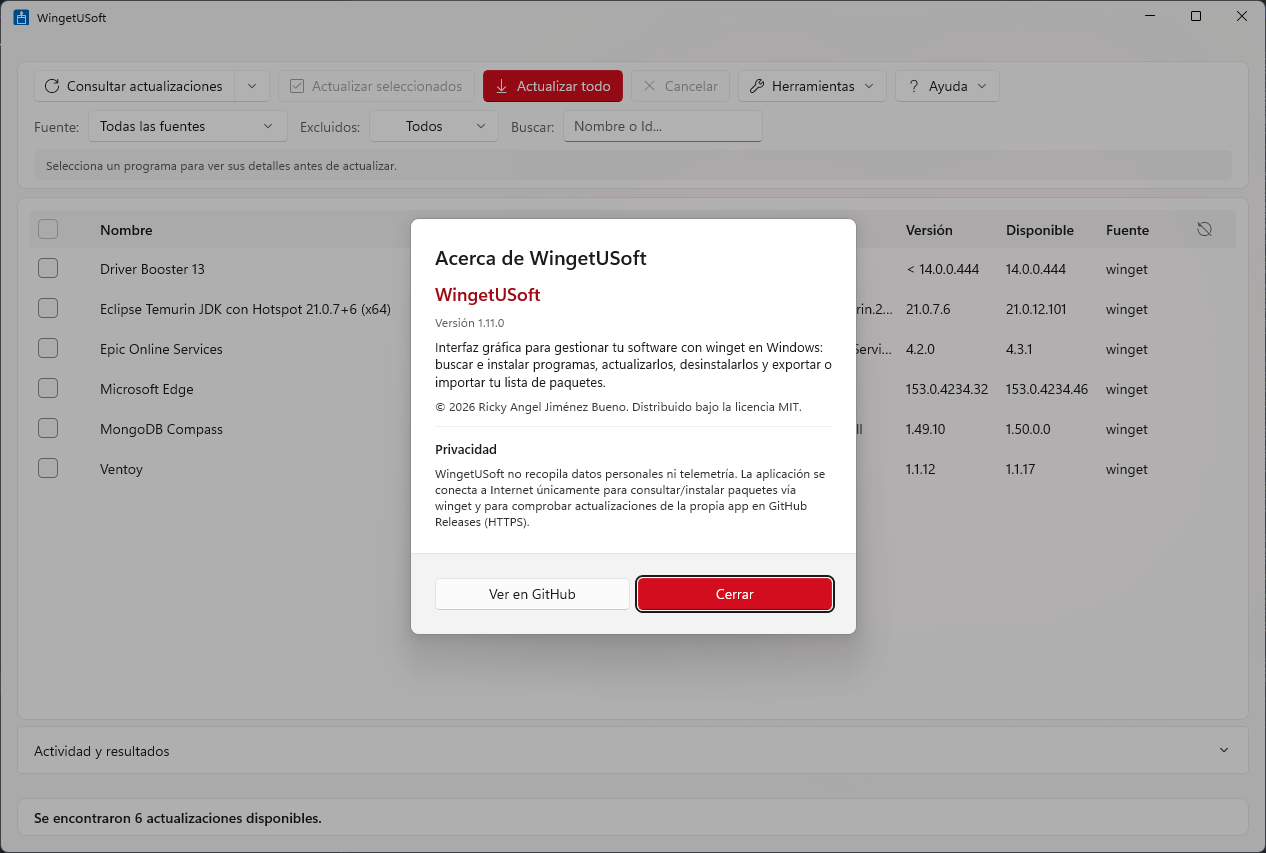
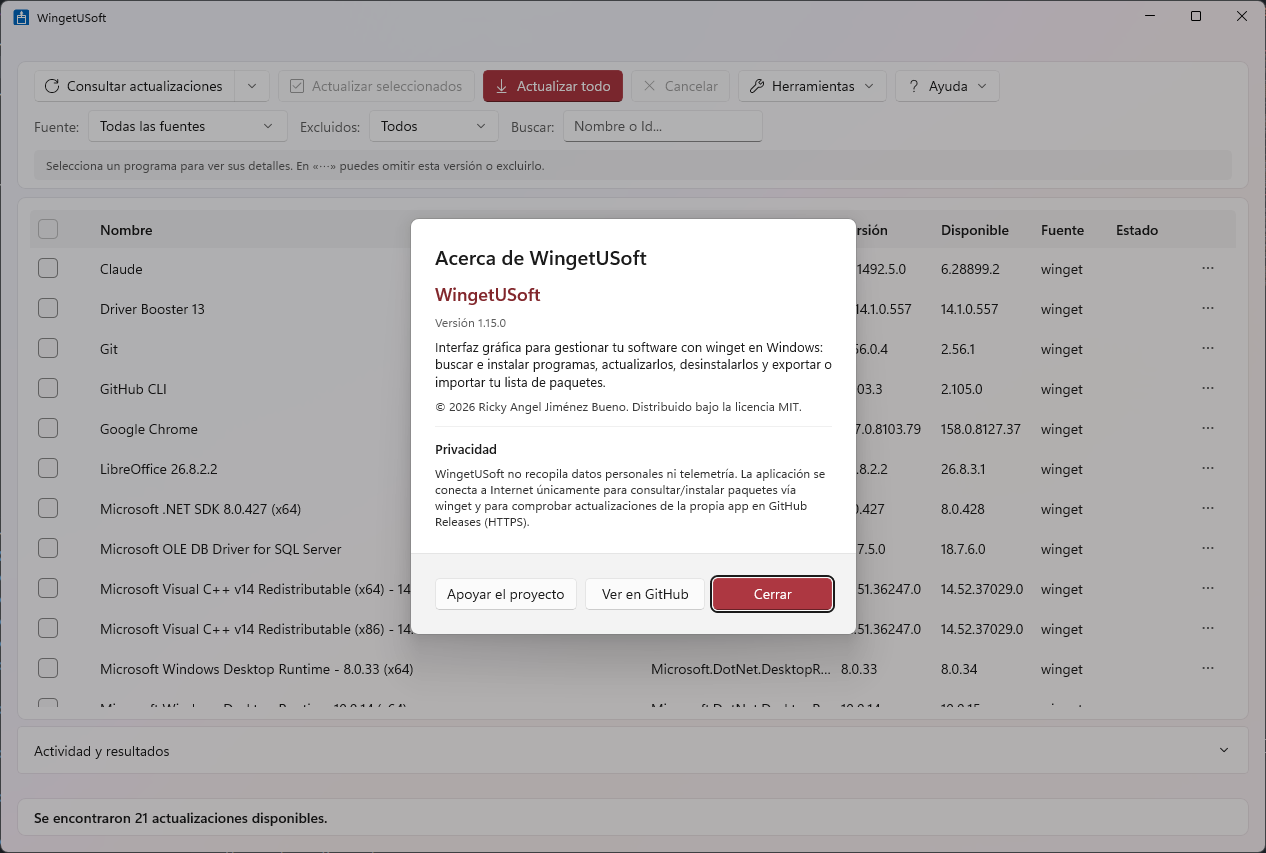
release: v1.15.0

diff --git a/src/WingetUSoft/Services/WingetService.cs b/src/WingetUSoft/Services/WingetService.cs
@@ -225,7 +225,13 @@ public static class WingetService
     /// <c>Microsoft.Edge</c> coincide también con <c>Microsoft.Edge.GameAssist</c> (comprobado con
     /// <c>winget list</c>). Al desinstalar, el Id tiene que señalar ese programa y ningún otro.
     /// </summary>
-    internal static List<string> BuildUninstallArguments(string packageId, bool silent)
+    /// <param name="packageId">Id exacto del paquete.</param>
+    /// <param name="silent">Sin ventanas del desinstalador.</param>
+    /// <param name="version">
+    /// Versión concreta, solo si hay varias instaladas bajo el mismo Id (ver
+    /// <see cref="UninstallBatch.VersionToDisambiguate"/>): sin ella, winget se niega con <c>0x8A150016</c>.
+    /// </param>
+    internal static List<string> BuildUninstallArguments(string packageId, bool silent, string? version = null)
     {
         var arguments = new List<string>
         {
@@ -235,6 +241,11 @@ public static class WingetService
             "--exact",
             "--accept-source-agreements"
         };
+        if (!string.IsNullOrEmpty(version))
+        {
+            arguments.Add("--version");
+            arguments.Add(version);
+        }
         if (silent) arguments.Add("--silent");
         return arguments;
     }
@@ -242,9 +253,10 @@ public static class WingetService
     public static async Task<UpgradeResult> UninstallPackageAsync(
         string packageId,
         bool silent,
-        CancellationToken cancellationToken = default)
+        CancellationToken cancellationToken = default,
+        string? version = null)
     {
-        var arguments = BuildUninstallArguments(packageId, silent);
+        var arguments = BuildUninstallArguments(packageId, silent, version);
 
         var result = await RunWingetAsync(arguments, cancellationToken).ConfigureAwait(false);
         return new UpgradeResult

diff --git a/tests/WingetUSoft.Tests/UninstallBatchTests.cs b/tests/WingetUSoft.Tests/UninstallBatchTests.cs
@@ -144,6 +144,32 @@ public sealed class UninstallBatchTests
         Assert.Equal(silent, arguments.Contains("--silent"));
     }
 
+    /// <summary>Con el Id repetido, la versión va en los argumentos; sin ella, winget se niega (0x8A150016).</summary>
+    [Fact]
+    public void UninstallArguments_IncludeTheVersion_WhenGiven()
+    {
+        var arguments = WingetService.BuildUninstallArguments("Notepad++.Notepad++", silent: true, version: "8.6.0");
+
+        Assert.Equal("8.6.0", arguments[arguments.IndexOf("--version") + 1]);
+        Assert.DoesNotContain("--version", WingetService.BuildUninstallArguments("Notepad++.Notepad++", silent: true));
+    }
+
+    [Theory]
+    [InlineData("A.B", "1.0", "A.B", "2.0", "1.0")]    // repetido: hace falta la versión
+    [InlineData("A.B", "1.0", "a.b", "2.0", "1.0")]    // winget no distingue mayúsculas en el Id
+    [InlineData("A.B", "1.0", "C.D", "1.0", null)]     // Id único: no se pasa
+    [InlineData("A.B", "Unknown", "A.B", "2.0", null)] // no es una versión utilizable
+    [InlineData("A.B", "< 14.1.0", "A.B", "2.0", null)]
+    [InlineData("A.B", "", "A.B", "2.0", null)]
+    public void VersionToDisambiguate_OnlyForARepeatedIdWithARealVersion(
+        string id, string version, string otherId, string otherVersion, string? expected)
+    {
+        var package = new WingetPackage { Id = id, Version = version };
+        var other = new WingetPackage { Id = otherId, Version = otherVersion };
+
+        Assert.Equal(expected, UninstallBatch.VersionToDisambiguate(package, new[] { package, other }));
+    }
+
     /// <summary>Cabecera y filas siguen teniendo las mismas columnas, y cada casilla se anuncia con su programa.</summary>
     [Fact]
     public void UninstallTable_HasANamedCheckBoxColumn_AlignedWithItsHeader()

diff --git a/src/WingetUSoft/Core/UninstallBatch.cs b/src/WingetUSoft/Core/UninstallBatch.cs
@@ -24,6 +24,22 @@ public sealed record UninstallBatchResult(
 public static class UninstallBatch
 {
     /// <summary>
+    /// Versión que hay que pasar a winget para señalar este programa, o <c>null</c> si el Id ya basta.
+    /// </summary>
+    /// <remarks>
+    /// Con dos versiones instaladas bajo el mismo Id, <c>winget uninstall --id X --exact</c> se niega con
+    /// <c>0x8A150016</c> y no se podía quitar ninguna. Solo se pasa cuando el Id está repetido, y solo si es una
+    /// versión de verdad: winget también lista valores como <c>Unknown</c> o <c>&lt; 14.1.0</c>, que no sirven como
+    /// argumento. En ese caso winget seguirá negándose, que es preferible a desinstalar otra versión.
+    /// </remarks>
+    public static string? VersionToDisambiguate(WingetPackage package, IEnumerable<WingetPackage> installed)
+    {
+        bool repeated = installed.Count(p => string.Equals(p.Id, package.Id, StringComparison.OrdinalIgnoreCase)) > 1;
+        string version = package.Version.Trim();
+        return repeated && version.Length > 0 && char.IsAsciiDigit(version[0]) ? version : null;
+    }
+
+    /// <summary>
     /// Desinstala los programas en orden. Un fallo no corta el lote; cancelar sí, y lo pendiente no se intenta.
     /// </summary>
     /// <param name="packages">Programas a desinstalar.</param>

diff --git a/src/WingetUSoft/UI/UninstallWindow.xaml.cs b/src/WingetUSoft/UI/UninstallWindow.xaml.cs
@@ -282,6 +282,7 @@ public sealed partial class UninstallWindow : Window
         SetUIBusy(true);
         ClearLog();
         var opStopwatch = System.Diagnostics.Stopwatch.StartNew();
+        var installed = _allPackages;   // la lista se reemplaza al recargar: el lote decide con la que vio el usuario
         UninstallBatchResult? result = null;
         TaskbarProgress.SetIndeterminate(_hWnd);
 
@@ -289,7 +290,8 @@ public sealed partial class UninstallWindow : Window
         {
             result = await UninstallBatch.RunAsync(
                 targets,
-                (pkg, ct) => WingetService.UninstallPackageAsync(pkg.Id, _settings.SilentMode, ct),
+                (pkg, ct) => WingetService.UninstallPackageAsync(
+                    pkg.Id, _settings.SilentMode, ct, UninstallBatch.VersionToDisambiguate(pkg, installed)),
                 onStarting: (pkg, position) =>
                 {
                     txtEstado.Text = targets.Count == 1

diff --git a/CONTEXT.md b/CONTEXT.md
@@ -11,10 +11,10 @@
 | | |
 |---|---|
 | **Repositorio** | https://github.com/xfiberex/WingetUSoft |
-| **Versión publicada** | **1.14.0** ([release](https://github.com/xfiberex/WingetUSoft/releases/tag/v1.14.0), sin firmar) |
+| **Versión publicada** | **1.15.0** ([release](https://github.com/xfiberex/WingetUSoft/releases/tag/v1.15.0), sin firmar) |
 | **En `main`, sin publicar** | nada — `main` y el último tag coinciden |
 | **Stack** | C# / .NET 10 · **WinUI 3** (Windows App SDK 1.8, unpackaged, `net10.0-windows10.0.22621.0`, min. 10.0.19041.0) · **xUnit** + **FlaUI** · Inno Setup 6 |
-| **Última actualización** | 2026-11-20 |
+| **Última actualización** | 2026-11-21 |
 
 ---
 
@@ -88,10 +88,10 @@ release.ps1                  Corte de versión en un paso (tests + instalador + 
 | | |
 |---|---|
 | **Build** | 0 advertencias / 0 errores (`dotnet build WingetUSoft.slnx`) |
-| **Tests unitarios** | **449/449** |
+| **Tests unitarios** | **466/466** |
 | **UI tests (FlaUI)** | **65/65** — los corre `verify.ps1 -Full`, y `release.ps1` a través de él: un release no sale si la app real no pasa |
 | **Tiers** | A, B, C, D, E y **F** completados. El plan de auditoría de [`History.md`](History.md) (Parte II, T0-T4): **70 de 70**; el Tier F: **27 de 27** |
-| **Publicado** | hasta la **v1.14.0**. `main` y el último tag coinciden |
+| **Publicado** | hasta la **v1.15.0**. `main` y el último tag coinciden |
 
 **Tiers, de un vistazo** (detalle en [`History.md`](History.md); el porqué, en el Registro de cambios):
 
@@ -290,6 +290,7 @@ Lo comparten el hook de pre-push y `release.ps1`.
 
 | Fecha | Versión | Qué |
 |---|---|---|
+| 2026-11-21 | **1.15.0** | **Desinstalar varios programas a la vez** — casillas, una sola limpieza y un único resumen de fallos; `--exact` para que un Id no alcance a otro programa y `--version` para poder quitar una de dos versiones instaladas |
 | 2026-11-20 | **1.14.0** | **Crítica de diseño** — botón de peligro en contorno (ya no se confunde con un acento rojo), Novedades con párrafos completos, acciones de cada fila a la vista con «⋯», Historial vacío con un solo mensaje; CI con el SDK fijado en `global.json` |
 | 2026-09-20 | **1.13.0** | **Apoyar el proyecto** — un enlace de donación voluntaria en *Ayuda → Acerca de*, y el README reducido a la mitad |
 | 2026-09-20 | **1.12.1** | **Tier F completo (F-27)** — exportar e importar volvían a fallar en silencio si la aplicación se abría como administrador: los selectores de archivo pasan a los de Windows App SDK |
@@ -316,9 +317,9 @@ Lo comparten el hook de pre-push y `release.ps1`.
 
 ---
 
-### 2026-11-21 — Desinstalar varios programas, y `--exact` (sin publicar)
+### 2026-11-21 — Desinstalar varios programas, y que el Id señale solo a uno (release v1.15.0)
 
-Build 0/0, **459/459 unitarios**, **65/65 UI tests** con la pantalla al 125 %.
+Build 0/0, **466/466 unitarios**, **65/65 UI tests** con la pantalla al 125 %.
 
 - **Selección múltiple en Desinstalar.** Casillas por fila y tri-estado en la cabecera; las marcas sobreviven a
   la búsqueda y la confirmación nombra también las que estén ocultas. `UninstallBatch` sigue tras un fallo, se
@@ -328,9 +329,18 @@ Build 0/0, **459/459 unitarios**, **65/65 UI tests** con la pantalla al 125 %.
   también con `Microsoft.Edge.GameAssist` (comprobado con `winget list`).
 - **`DensityUiTests` mide en DIP**, y `capture-screenshots.ps1` avisa si la pantalla no está al 100 %.
 
-**Sin probar de extremo a extremo:** una desinstalación real en lote. Se probó con un doble y, en la app real,
-hasta el diálogo de confirmación, sin confirmarlo. Tampoco se ha comprobado qué hace winget con dos versiones
-instaladas bajo el mismo Id (p. ej. CrystalDiskMark 8 y 9): si no puede elegir, debería contar como fallo.
+- **Dos versiones bajo el mismo Id.** winget se niega con `0x8A150016` y la app no podía quitar ninguna (p. ej.
+  CrystalDiskMark 8 y 9). Si el Id está repetido se pasa `--version`; si el valor no es una versión real
+  (`Unknown`, `< 14.1.0`), no se pasa y winget sigue negándose, que es mejor que quitar otra versión.
+
+**Probado de extremo a extremo en la app real**, con paquetes desechables y sin tocar los del usuario:
+- `jq`, `hyperfine` y `fd` en un lote, con `fd` retirado por fuera para forzar un fallo: dos desinstalados, un
+  fallo con su motivo, el lote no se corta y sale **una** ventana de limpieza, solo con los dos correctos.
+- Cancelar un lote de dos: `Sin terminar: 2`, ninguno desinstalado y ninguna ventana de limpieza.
+- Dos entradas falsas de «Agregar o quitar programas» bajo el mismo Id: se quita la 8.6.0 y la 8.7.0 sigue.
+
+`winget list` quedó idéntica. Efecto residual: instalar y quitar portables dejó un `;` final en el `PATH` de
+usuario, con las mismas entradas en el mismo orden.
 
 ---
 

diff --git a/README.md b/README.md
@@ -41,7 +41,7 @@ equipo — sin tocar la línea de comandos.
 **Instalar, desinstalar y mover tu lista**
 - **Buscar e instalar** desde el catálogo de winget, con progreso y registro en vivo; lo que ya tienes sale
   marcado como instalado.
-- **Desinstalar** cualquier programa, con confirmación. Al terminar se abre la **limpieza de residuos**:
+- **Desinstalar** uno o varios programas, con confirmación. Al terminar se abre la **limpieza de residuos**:
   propone las carpetas que el desinstalador dejó atrás, **nada viene marcado** y el borrado es recursivo,
   no pasa por la papelera y no se puede deshacer.
 - **Exportar** al formato JSON nativo de winget (con las versiones exactas si quieres) e **importar** en

diff --git a/SECURITY.md b/SECURITY.md
@@ -9,7 +9,7 @@ para que puedas avisar por un canal privado antes de que sea público.
 
 | Versión | Soporte |
 |---|---|
-| Última publicada (1.14.x) | ✅ |
+| Última publicada (1.15.x) | ✅ |
 | Cualquier versión anterior | ❌ |
 
 Es un proyecto de autor único: no hay ramas de mantenimiento. Las correcciones salen en la siguiente
